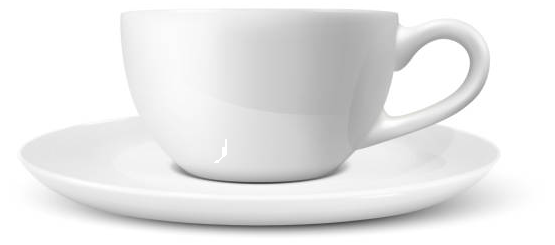
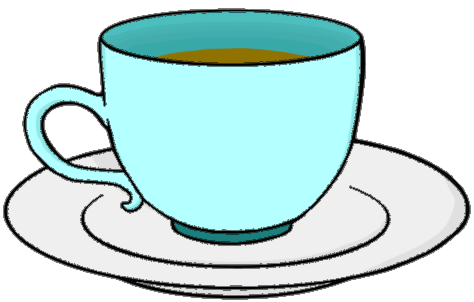
Final revision? Changed background, added tea cups for each page, added navbar hover effect

diff --git a/src/page-components/home/homePage.js b/src/page-components/home/homePage.js
@@ -24,9 +24,9 @@ function Home() {
 
      <div className="content-container" id="highlights" >
             <svg viewBox="0 0 450 35">
-                <path d="M-100,-37 C2,55 450,55 550,-37" fill="white"/>
+                <path d="M-100,-37 C2,55 450,55 550,-37 L550,55 L-100,55" fill="#c4df9b"/>
             </svg>
-
+            <div className="colorFill">
             <h1 className="event-header">
                 Check out our event highlights!
             </h1>
@@ -48,8 +48,9 @@ function Home() {
                 }
             </Carousel>
             <div className="slider"></div>
+            </div>
            <svg viewBox="0 0 450 25"> 
-             <path d="M-100,70 C2,-22 450,-22 550,70" fill="white"/>
+             <path d="M-100,70 C2,-22 450,-22 550,70 L 550,-22 L -100, -22" fill="#c4df9b"/>
             </svg> 
             
             
@@ -63,7 +64,7 @@ function Home() {
         </div>
         <div className='page-home-sponsor'>
             <h2>Interested in Sponsoring? <img src={Cup2} height={30}></img></h2>
-            <p>Send us an email &nbsp; <a href="https://google.com" target="_blank" rel="noreferrer">
+            <p>Send us an email &nbsp; <a href="mailto:irwinngo@gmail.com" target="_blank" rel="noreferrer">
             <img src={Email} height={20}></img></a> &nbsp; or message us on instagram! &nbsp;<a href="https://instagram.com" target="_blank" rel="noreferrer">
             <img src={Insta} height={20}></img></a></p>
         </div>

diff --git a/src/page-components/navbar/navbar.js b/src/page-components/navbar/navbar.js
@@ -6,7 +6,7 @@ import {
 
 function MenuButton(props) {
     return (
-        <a href={props.path}>
+        <a className="navbarText" href={props.path}>
             <p>{props.text}</p>
         </a>
     )
@@ -45,19 +45,13 @@ export function Navbar() {
             </a>
         </div>
 
-
-        <div className="navbar-contact">
-            <ContactButton image={email_logo} text="Email"/>
-            <ContactButton image={instagram_logo} text="Instagram" path={instagram_path}/>
-        </div>
-
     </>
 }
 
 export const ContactBar = () => {
     return (
         <div className="navbar-contact">
-            <ContactButton image={email_logo} text="Email"/>
+            <ContactButton image={email_logo} text="Email" path='mailto:irwinngo@gmail.com'/>
             <ContactButton image={instagram_logo} text="Instagram" path={instagram_path}/>
         </div>
     )

diff --git a/src/page-components/page-introductions/PageIntro.js b/src/page-components/page-introductions/PageIntro.js
@@ -1,9 +1,36 @@
 import React from 'react';
 import './PageIntro.css';
-import Cup from './images/cup.png';
+
+import CupFAQ from './images/cupFAQ.png';
+
+import CupAbout from './images/cupAbout.png';
+
+import CupEvent from './images/cupEvent.png';
+
+import CupTeam from './images/cupTeam.png';
+
 import Smoke from '../home/components/Smoke'
 
 function PageIntro(props) {
+    var Cup;
+
+    switch(props.page) {
+        case 'about': 
+            Cup = CupAbout;
+            break;
+        case 'events':
+            Cup = CupEvent;
+            break;
+        case 'team':
+            Cup = CupTeam;
+            break;
+        case 'faq':
+            Cup = CupFAQ;
+            break;
+        default:
+            Cup = CupAbout;
+    }
+
     return (
     <>
         <div className="page-intro-container">

diff --git a/src/page-components/navbar/navbar.css b/src/page-components/navbar/navbar.css
@@ -2,7 +2,6 @@
 
 .navbar-menu {
     grid-column: 1 / 20;
-    background-color: var(--navbar-menu-color);
     
     min-height: var(--menu-height);
     max-height: var(--menu-height); 
@@ -55,12 +54,16 @@
     background-color: var(--join-color);
     padding: 0.75vw 1.5vw;
     border-radius: 10vw;
+    transition: color 0.3s ease-out;
     
+}
+
+.navbar-menu .navbar-join:hover {
+    color:rgb(0, 136, 41);
 }
 
 .navbar-contact {
     grid-column: 1 / 2;
-    background-color: var(--navbar-contact-color);
     
     display: flex;
     flex-direction: column;
@@ -83,3 +86,12 @@
     position: relative;
     width: 3vw;
 }
+
+.navbarText:hover {
+    color: rgb(17, 230, 113);
+}
+
+.navbarText {
+    transition: color 0.3s ease-out;
+}
+

diff --git a/src/page-components/page-introductions/PageIntro.css b/src/page-components/page-introductions/PageIntro.css
@@ -1,6 +1,5 @@
 .page-introduction {
     grid-column: calc(var(--column-num) * 2 / 20) / calc(var(--column-num) * 10 / 20);
-    background-color: var(--page-intro-color);
 
     width: calc(var(--column-width) * 8);
 
@@ -12,7 +11,7 @@
 
     width: calc(var(--column-width)*8);
     height: 55vh;
-    margin-top: 5%;
+    margin-top: -5%;
     left: var(--column-width);
 }
 
@@ -31,13 +30,13 @@
 .page-introduction .page-intro-container p {
     font-family: Kanit;
     font-size: 1.25em;
-    margin-left: 3vw;
 }
 
 .page-introduction img {
     position: relative;
     z-index: 0;
     margin: 0;
-    width: 38vh;
-    left: 22.5vh;
+    width: 20vw;
+    left: 60%;
+    transform: translateX(-50%);
 }

diff --git a/src/App.css b/src/App.css
@@ -15,6 +15,8 @@
 
 @import url('https://fonts.googleapis.com/css2?family=Comic+Neue:ital,wght@1,700&family=Space+Mono&display=swap');
 
+@import url('https://fonts.googleapis.com/css2?family=Shantell+Sans:wght@300&family=Sorts+Mill+Goudy&display=swap');
+
 :root {
     --menu-height: 13vh;
     --contact-height: calc(100vh - var(--menu-height));
@@ -27,12 +29,15 @@
     --navbar-contact-color: #FFFFFF;
     --page-intro-color: #FFFFFF;
 
-    --navbar-menu-font-size: 1.3em;
+    --navbar-menu-font-size: 1.5em;
 }
 
 body {
     margin: 0;
     overflow-x: hidden;
+    background-image: url('./background.jpg');
+    background-repeat:repeat;
+    background-size: 5%;
 }
 
 .main-container {

diff --git a/src/page-components/home/homePage.css b/src/page-components/home/homePage.css
@@ -27,10 +27,16 @@
     place-items: center stretch;
     grid-column: 1/21;
     grid-row: 3/4;
-    background-color: #c4df9b;
+    /*background-color: #c4df9b;*/
   }
 
-  
+  .homeSvg {
+    width: 100vw;
+  }
+
+  .colorFill {
+    background-color: #c4df9b;
+  }
   
   
   .event-header{
@@ -68,6 +74,12 @@
 
   .prev{
     transform: rotate(180deg);
+    margin-left: 4em;
+  }
+
+  .next {
+    
+    margin-right: 4em;
   }
 
   

diff --git a/src/page-components/events/eventsPage.js b/src/page-components/events/eventsPage.js
@@ -63,7 +63,7 @@ function Events() {
     const eventsNotEmpty = events.length === 0 ? false : true
     return <>
     <div className="page-introduction">
-        <PageIntro title={EventsText.title} text={EventsText.text}/>
+        <PageIntro title={EventsText.title} text={EventsText.text} page="events"/>
     </div>
     <div className="page-component">
         <div className="page-events-board">

diff --git a/src/page-components/faq/faqPage.js b/src/page-components/faq/faqPage.js
@@ -12,7 +12,7 @@ import PageIntro from '../page-introductions/PageIntro.js';
 function FAQ() {
     return (<>
     <div className='page-introduction'>
-        <PageIntro title={FAQText.title} text={FAQText.text}/>
+        <PageIntro title={FAQText.title} text={FAQText.text} page="faq"/>
     </div>
     <div className='page-component'>
             <div className='page'>

diff --git a/src/page-components/about/aboutPage.js b/src/page-components/about/aboutPage.js
@@ -63,7 +63,7 @@ function About() {
     
     return <>
     <div className='page-introduction'>
-        <PageIntro title={AboutText.title} text={AboutText.text}/>
+        <PageIntro title={AboutText.title} text={AboutText.text} page="about"/>
     </div>
     <div className='page-component'>
         

diff --git a/src/page-components/home/components/Smoke.js b/src/page-components/home/components/Smoke.js
@@ -3,7 +3,7 @@ import './Smoke.css';
 const Smoke = () => {
   
   const list = [];
-  for( let i = 0; i < 80; i++){
+  for( let i = 0; i < 60; i++){
     const x = Math.random() * 25;
     list.push(<li style={{'--i': x}}></li>)
   }

diff --git a/src/page-components/home/components/WelcomeMessage.js b/src/page-components/home/components/WelcomeMessage.js
@@ -1,5 +1,5 @@
 import React from 'react';
-import Cup from './cup.png';
+import Cup from './cupHome.png';
 import './WelcomeMessage.css';
 import Smoke from './Smoke.js';
 const WelcomeMessage = () => {
